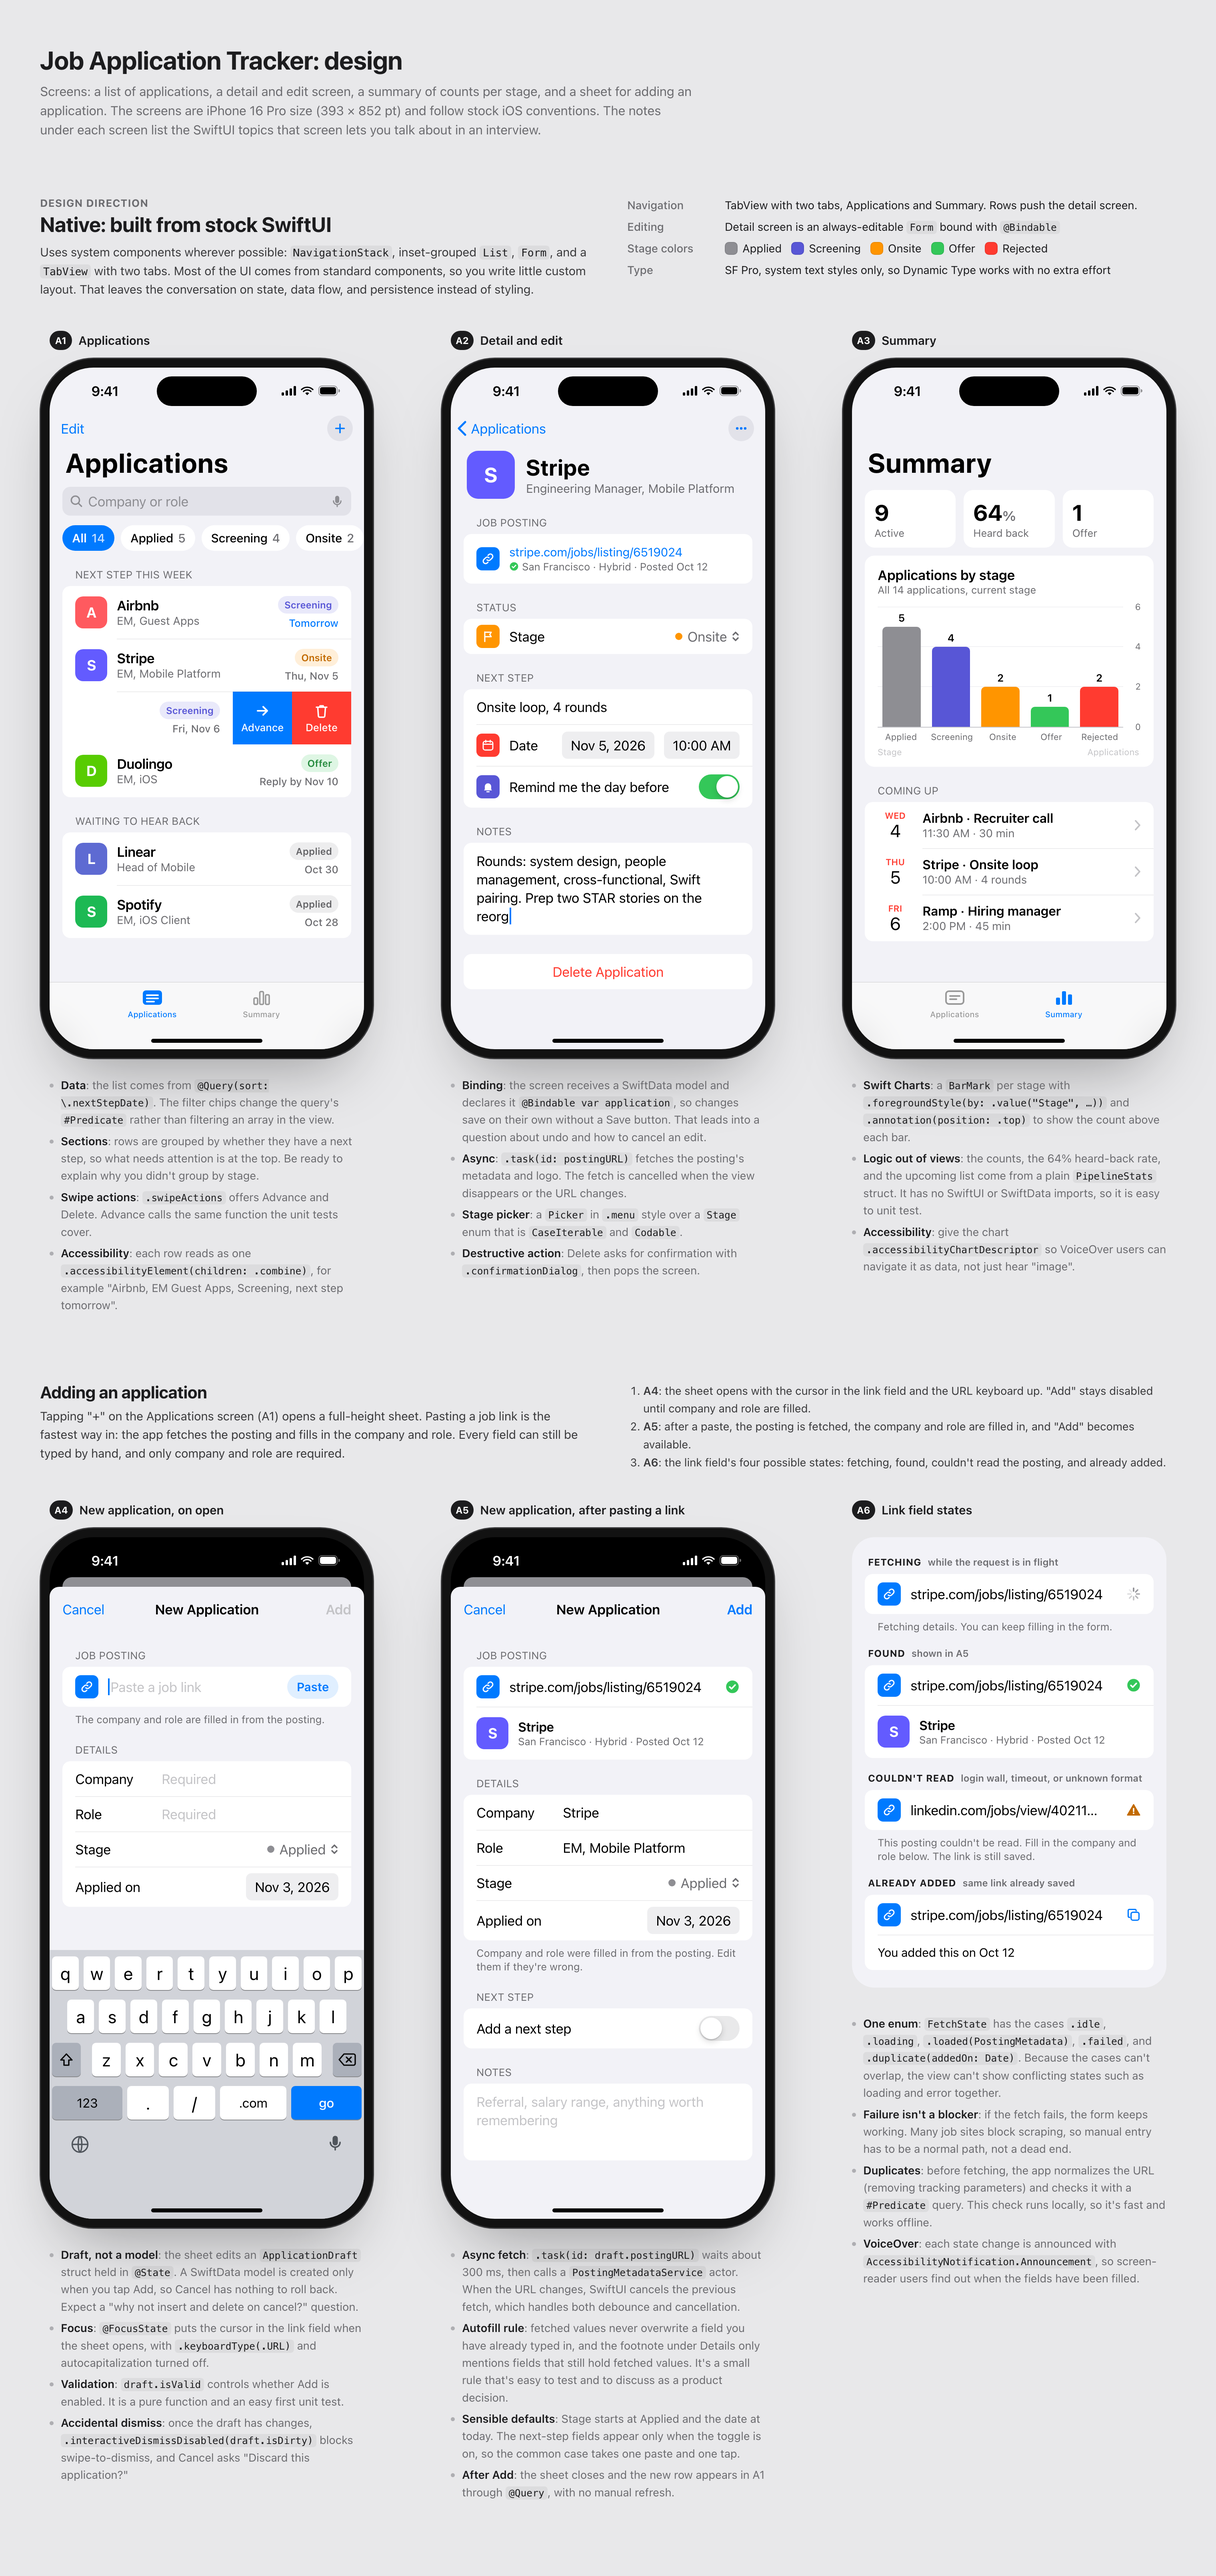
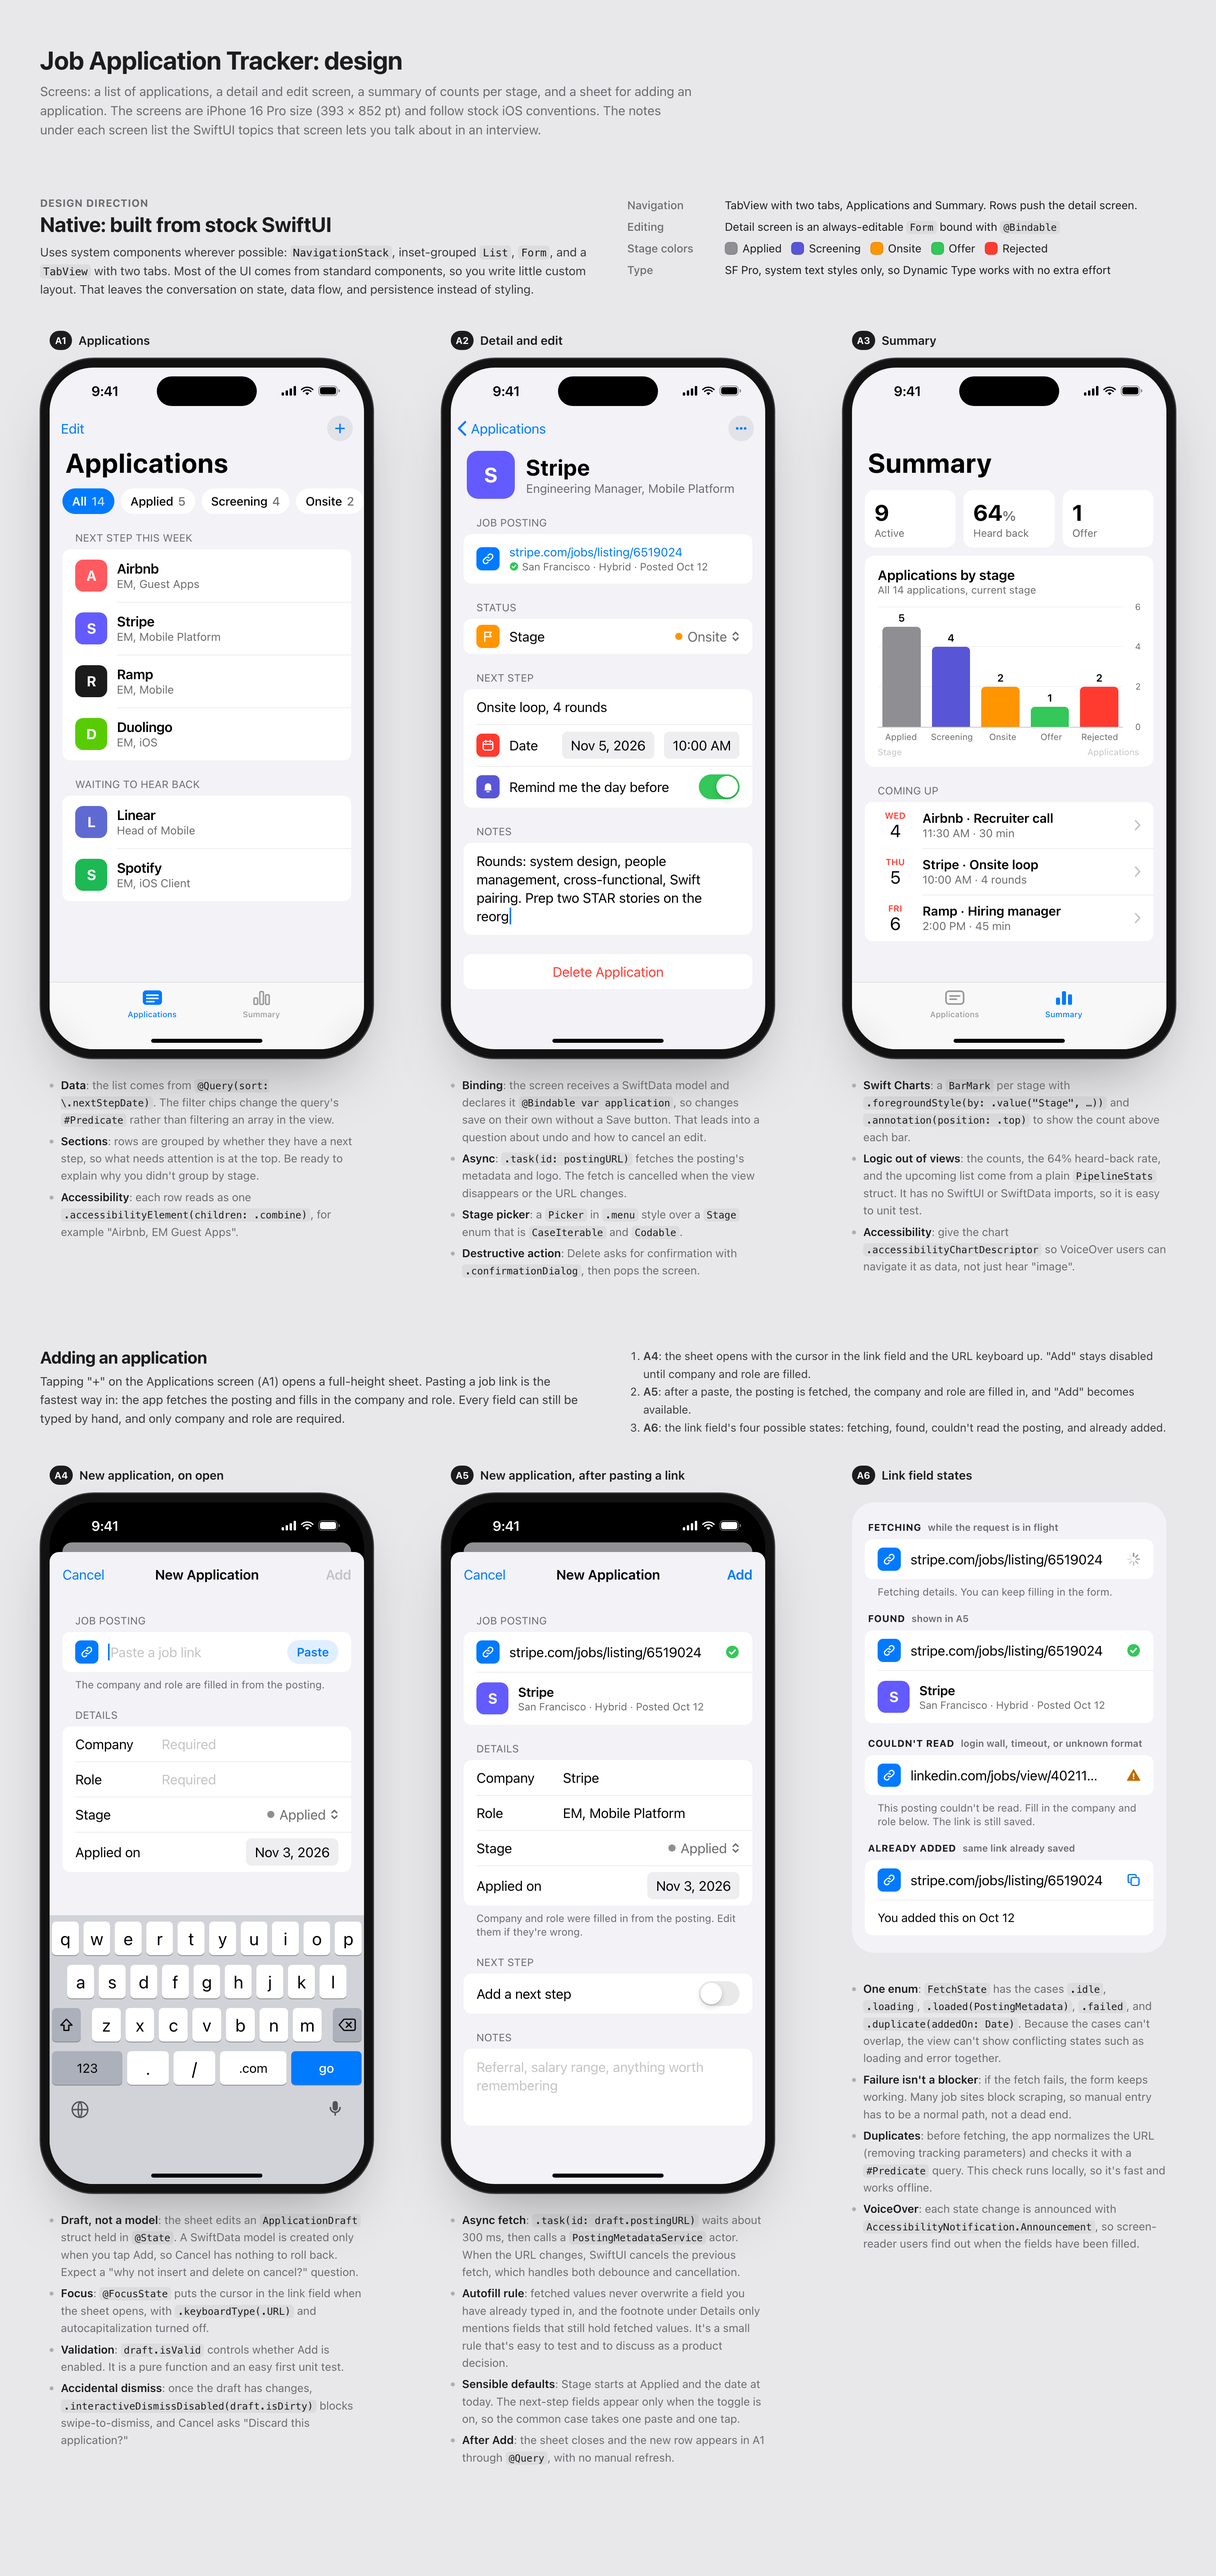
removed the search bar

diff --git a/mockups/job-tracker.html b/mockups/job-tracker.html
@@ -74,10 +74,6 @@
   .a .nav .back { display: flex; align-items: center; gap: 5px; margin-left: -6px; }
   .a .circle-btn { width: 32px; height: 32px; border-radius: 16px; background: rgba(118,118,128,.12); display: flex; align-items: center; justify-content: center; color: var(--tint); }
   .a .large-title { font-size: 34px; font-weight: 700; letter-spacing: 0.4px; line-height: 41px; padding: 0 4px; }
-  .a .search {
-    margin-top: 10px; height: 36px; border-radius: 10px; background: rgba(118,118,128,.12);
-    display: flex; align-items: center; gap: 6px; padding: 0 9px; color: #8E8E93; font-size: 17px;
-  }
   .a .filters { display: flex; gap: 8px; margin: 12px -16px 0; padding: 0 16px; overflow: hidden; }
   .a .filter {
     height: 32px; padding: 0 12px; border-radius: 16px; background: var(--card); font-size: 15px; font-weight: 500;
@@ -203,7 +199,6 @@
     <symbol id="chev-l" viewBox="0 0 12 20"><path d="M10 2 2 10l8 8" fill="none" stroke="currentColor" stroke-width="2.6" stroke-linecap="round" stroke-linejoin="round"/></symbol>
     <symbol id="updown" viewBox="0 0 10 16"><path d="M2 6 5 3l3 3M2 10l3 3 3-3" fill="none" stroke="currentColor" stroke-width="1.8" stroke-linecap="round" stroke-linejoin="round"/></symbol>
     <symbol id="plus" viewBox="0 0 20 20"><path d="M10 3.5v13M3.5 10h13" stroke="currentColor" stroke-width="2.3" stroke-linecap="round"/></symbol>
-    <symbol id="search" viewBox="0 0 20 20"><circle cx="8.5" cy="8.5" r="6" fill="none" stroke="currentColor" stroke-width="2"/><path d="m13 13 4.5 4.5" stroke="currentColor" stroke-width="2" stroke-linecap="round"/></symbol>
     <symbol id="mic" viewBox="0 0 20 20"><rect x="7" y="2" width="6" height="11" rx="3" fill="currentColor"/><path d="M4.5 9.5a5.5 5.5 0 0 0 11 0M10 15v3" fill="none" stroke="currentColor" stroke-width="1.7" stroke-linecap="round"/></symbol>
     <symbol id="tray" viewBox="0 0 28 24"><rect x="2" y="3" width="24" height="18" rx="4" fill="currentColor"/><path d="M7 9h14M7 13h14M7 17h9" stroke="#fff" stroke-width="2" stroke-linecap="round"/></symbol>
     <symbol id="tray-o" viewBox="0 0 28 24"><rect x="3" y="4" width="22" height="16" rx="3.5" fill="none" stroke="currentColor" stroke-width="2"/><path d="M8 10h12M8 14h8" stroke="currentColor" stroke-width="2" stroke-linecap="round"/></symbol>
@@ -264,7 +259,6 @@
         <div class="content">
           <div class="nav"><span>Edit</span><span class="circle-btn"><svg class="i" width="16" height="16"><use href="#plus"/></svg></span></div>
           <div class="large-title">Applications</div>
-          <div class="search"><svg class="i" width="17" height="17"><use href="#search"/></svg><span style="flex:1">Company or role</span><svg class="i" width="17" height="17"><use href="#mic"/></svg></div>
           <div class="filters">
             <div class="filter on">All <em>14</em></div>
             <div class="filter">Applied <em>5</em></div>
